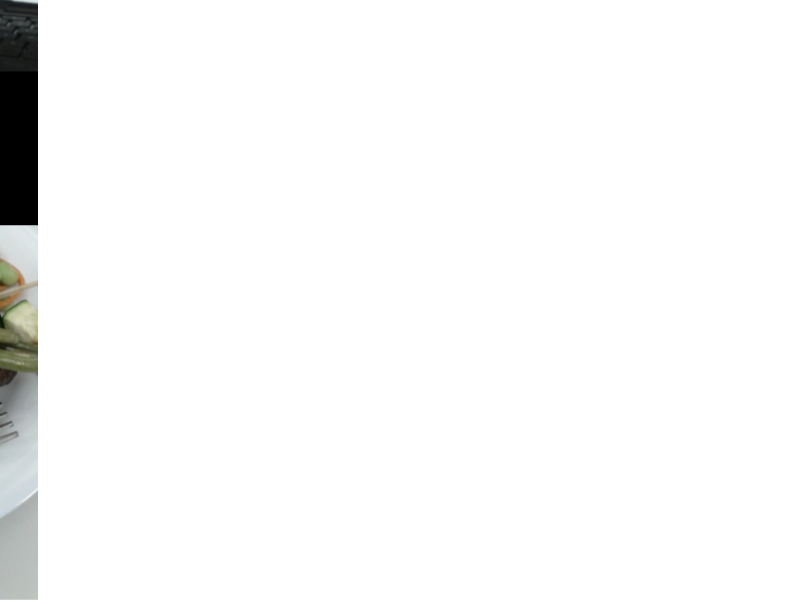
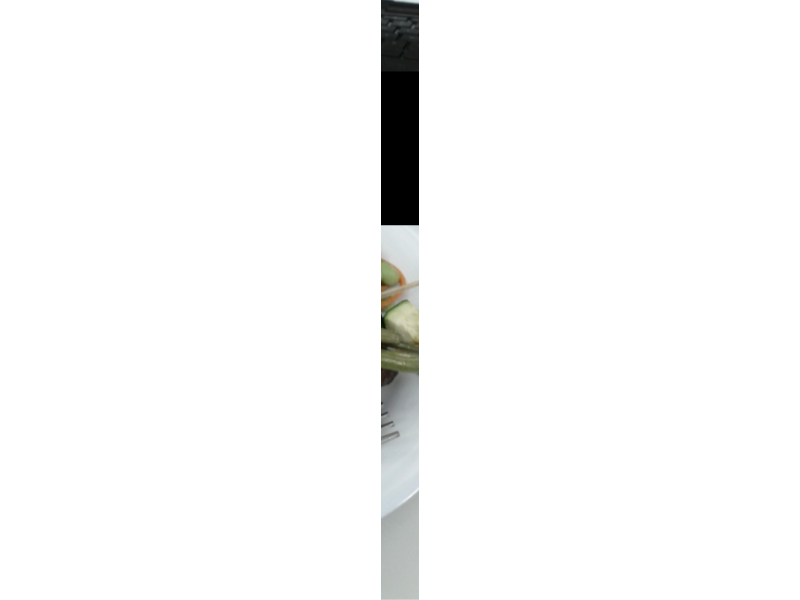
[Blink] Display images in the center of the screen
Code was adapted from MediaDocument.cpp.  Additions were
made to let the image be zoomed to full width on both
mobile and desktop.

Had to edit TestExpectations to deal with the virtual tests
failing to work with the command line rebaselining tool,
but some of the suggested changes are included here.

Intent to implement:
https://docs.google.com/document/d/1wJPz4kn-9mEFs_ZEM0hAwwr-YzBdW-5hdX1-jkt81Ng/edit?usp=sharing

Images of proposed changes:
https://drive.google.com/drive/folders/0B8k2SmEN8xS3RHJGSVpNZjVtUUE?usp=sharing

BUG=650456

Review-Url: https://codereview.chromium.org/2376163002
Cr-Original-Commit-Position: refs/heads/master@{#425440}
Cr-Mirrored-From: https://chromium.googlesource.com/chromium/src
Cr-Mirrored-Commit: 8512a83031e6531c976f4af85a28dbeef58bd635

Changed region(s): [[0.4688, 0.0, 0.5312, 1.0], [0.0, 0.0, 0.0625, 1.0]]

diff --git a/WebKit/Source/core/html/ImageDocument.cpp b/WebKit/Source/core/html/ImageDocument.cpp
@@ -38,6 +38,8 @@
 #include "core/frame/UseCounter.h"
 #include "core/frame/VisualViewport.h"
 #include "core/html/HTMLBodyElement.h"
+#include "core/html/HTMLContentElement.h"
+#include "core/html/HTMLDivElement.h"
 #include "core/html/HTMLHeadElement.h"
 #include "core/html/HTMLHtmlElement.h"
 #include "core/html/HTMLImageElement.h"
@@ -180,6 +182,7 @@ void ImageDocumentParser::finish() {
 
 ImageDocument::ImageDocument(const DocumentInit& initializer)
     : HTMLDocument(initializer, ImageDocumentClass),
+      m_divElement(nullptr),
       m_imageElement(nullptr),
       m_imageSizeIsKnown(false),
       m_didShrinkImage(false),
@@ -212,12 +215,40 @@ void ImageDocument::createDocumentStructure() {
   head->appendChild(meta);
 
   HTMLBodyElement* body = HTMLBodyElement::create(*this);
-  body->setAttribute(styleAttr, "margin: 0px;");
+
+  if (shouldShrinkToFit()) {
+    // Display the image prominently centered in the frame.
+    body->setAttribute(styleAttr, "margin: 0px;");
+
+    // See w3c example on how to centering an element:
+    // https://www.w3.org/Style/Examples/007/center.en.html
+    m_divElement = HTMLDivElement::create(*this);
+    m_divElement->setAttribute(styleAttr,
+                               "display: flex;"
+                               "flex-direction: column;"
+                               "justify-content: center;"
+                               "align-items: center;"
+                               "min-height: min-content;"
+                               "min-width: min-content;"
+                               "height: 100%;"
+                               "width: 100%;");
+    HTMLContentElement* content = HTMLContentElement::create(*this);
+    m_divElement->appendChild(content);
+
+    ShadowRoot& shadowRoot = body->ensureUserAgentShadowRoot();
+    shadowRoot.appendChild(m_divElement);
+  } else {
+    body->setAttribute(styleAttr, "margin: 0px;");
+  }
 
   willInsertBody();
 
+  StringBuilder imageStyle;
+  imageStyle.append("-webkit-user-select: none;");
+  if (shouldShrinkToFit() && m_shrinkToFitMode == Viewport)
+    imageStyle.append("max-width: 100%");
   m_imageElement = HTMLImageElement::create(*this);
-  m_imageElement->setAttribute(styleAttr, "-webkit-user-select: none");
+  m_imageElement->setAttribute(styleAttr, imageStyle.toAtomicString());
   m_imageElement->setLoadingImageDocument();
   m_imageElement->setSrc(url().getString());
   body->appendChild(m_imageElement.get());
@@ -294,6 +325,11 @@ void ImageDocument::imageClicked(int x, int y) {
   if (m_shouldShrinkImage) {
     windowSizeChanged();
   } else {
+    // Adjust the coordinates to account for the fact that the image was
+    // centered on the screen.
+    float imageX = x - m_imageElement->offsetLeft();
+    float imageY = y - m_imageElement->offsetTop();
+
     restoreImageSize();
 
     updateStyleAndLayout();
@@ -301,9 +337,9 @@ void ImageDocument::imageClicked(int x, int y) {
     double scale = this->scale();
 
     float scrollX =
-        x / scale - static_cast<float>(frame()->view()->width()) / 2;
+        imageX / scale - static_cast<float>(frame()->view()->width()) / 2;
     float scrollY =
-        y / scale - static_cast<float>(frame()->view()->height()) / 2;
+        imageY / scale - static_cast<float>(frame()->view()->height()) / 2;
 
     frame()->view()->layoutViewportScrollableArea()->setScrollOffset(
         ScrollOffset(scrollX, scrollY), ProgrammaticScroll);
@@ -367,15 +403,36 @@ void ImageDocument::windowSizeChanged() {
     return;
 
   if (m_shrinkToFitMode == Viewport) {
-    // For huge images, minimum-scale=0.1 is still too big on small screens.
-    // Set max-width so that the image will shrink to fit the width of the
-    // screen when the scale is minimum.  Don't shrink height to fit because we
-    // use width=device-width in viewport meta tag, and expect a full-width
-    // reading mode for normal-width-huge-height images.
+    // Zooming in and out of an image being displayed within a viewport is done
+    // by changing the page scale factor of the page instead of changing the
+    // size of the image.  The size of the image is set so that:
+    // * Images wider than the viewport take the full width of the screen.
+    // * Images taller than the viewport are initially aligned with the top of
+    //   of the frame.
+    // * Images smaller in either dimension are centered along that axis.
+    LayoutSize imageSize = m_imageElement->cachedImage()->imageSize(
+        LayoutObject::shouldRespectImageOrientation(
+            m_imageElement->layoutObject()),
+        1.f);
     int viewportWidth = frame()->host()->visualViewport().size().width();
-    m_imageElement->setInlineStyleProperty(CSSPropertyMaxWidth,
-                                           viewportWidth * 10,
-                                           CSSPrimitiveValue::UnitType::Pixels);
+    int viewportHeight = frame()->host()->visualViewport().size().height();
+    float viewportAspectRatio = (float)viewportWidth / viewportHeight;
+
+    // For huge images, minimum-scale=0.1 is still too big on small screens.
+    // Set the <div> width so that the image will shrink to fit the width of the
+    // screen when the scale is minimum.
+    int maxWidth = std::min(imageSize.width().toInt(), viewportWidth * 10);
+    int divWidth = std::max(viewportWidth, maxWidth);
+    m_divElement->setInlineStyleProperty(CSSPropertyWidth, divWidth,
+                                         CSSPrimitiveValue::UnitType::Pixels);
+
+    // Explicitly set the height of the <div> containing the <img> so that it
+    // can display the full image without shrinking it, allowing a full-width
+    // reading mode for normal-width-huge-height images.
+    int divHeight = std::max(imageSize.height().toInt(),
+                             (int)(divWidth / viewportAspectRatio));
+    m_divElement->setInlineStyleProperty(CSSPropertyHeight, divHeight,
+                                         CSSPrimitiveValue::UnitType::Pixels);
     return;
   }
 
@@ -425,6 +482,7 @@ bool ImageDocument::shouldShrinkToFit() const {
 }
 
 DEFINE_TRACE(ImageDocument) {
+  visitor->trace(m_divElement);
   visitor->trace(m_imageElement);
   HTMLDocument::trace(visitor);
 }

diff --git a/WebKit/Source/core/html/ImageDocument.h b/WebKit/Source/core/html/ImageDocument.h
@@ -25,6 +25,7 @@
 #ifndef ImageDocument_h
 #define ImageDocument_h
 
+#include "core/html/HTMLDivElement.h"
 #include "core/html/HTMLDocument.h"
 #include "core/html/HTMLImageElement.h"
 #include "wtf/RefPtr.h"
@@ -65,6 +66,7 @@ class CORE_EXPORT ImageDocument final : public HTMLDocument {
   // the window, taking into account page zoom and device scale.
   float scale() const;
 
+  Member<HTMLDivElement> m_divElement;
   Member<HTMLImageElement> m_imageElement;
 
   // Whether enough of the image has been loaded to determine its size
